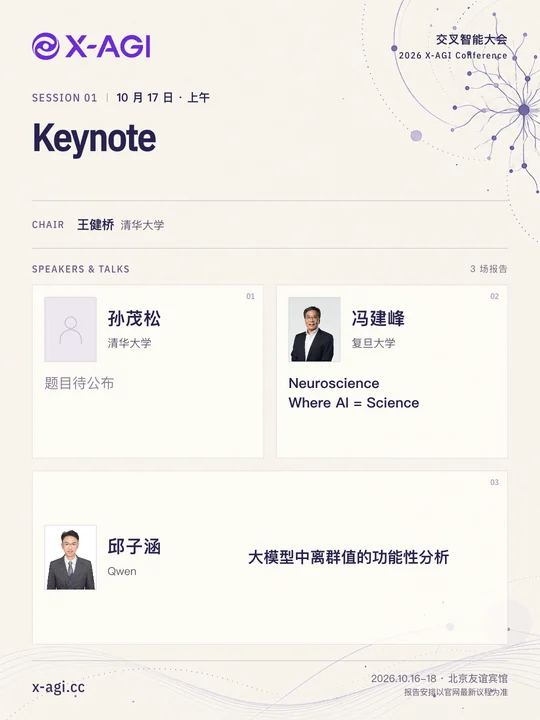
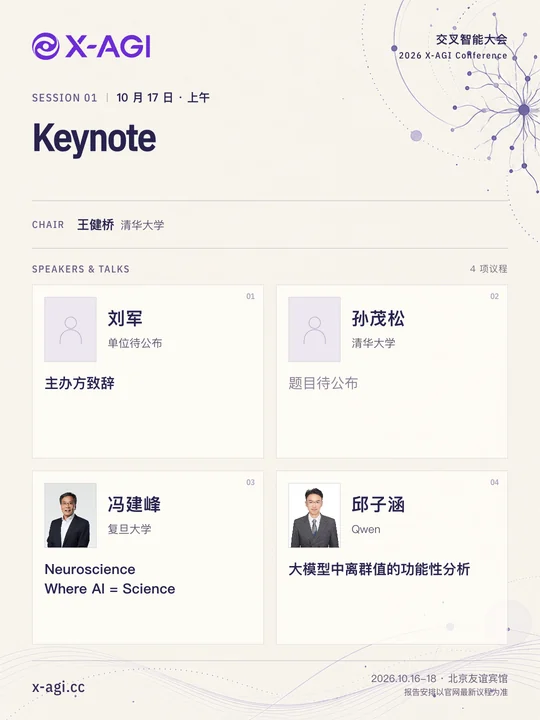
Add Liu Jun organizer remarks to the Keynote agenda (#36)

diff --git a/src/data/conference2026.test.ts b/src/data/conference2026.test.ts
@@ -9,6 +9,7 @@ import {
   conference2026PartnerDisplayGroups,
 } from './conference2026.ts';
 import { conference2026ProgramSource } from './conference2026-program.generated.ts';
+import { conference2026ProgramSessions, withOrganizerRemarks } from './conference2026-program.ts';
 import { partnerLogoByName } from './partner-logo-assets-2026.ts';
 
 const scheduleCategories = new Set(['arrival', 'keynote', 'parallel', 'poster']);
@@ -63,7 +64,7 @@ describe('conference schedule contracts', () => {
     assert.equal(conference2026ProgramSource.tabId, 'BB08J2');
     assert.equal(conference2026ProgramSource.sheetName, '工作表1');
     assert.match(conference2026ProgramSource.sourceHash, /^[a-f0-9]{64}$/u);
-    assert.equal(conference2026.programPreview.sessions, conference2026ProgramSource.sessions);
+    assert.equal(conference2026.programPreview.sessions, conference2026ProgramSessions);
     assert.ok(conference2026ProgramSource.sessions.length > 0);
 
     const expectedTimeSlots = new Map([
@@ -100,6 +101,22 @@ describe('conference schedule contracts', () => {
     }
 
     assert.deepEqual(actualTimeSlots, expectedTimeSlots);
+  });
+
+  it('keeps the organizer address first without duplicating later source updates', () => {
+    const keynote = conference2026ProgramSessions.find((session) => session.title === 'Keynote')!;
+    assert.deepEqual(keynote.speakers[0], { name: '刘军', talkTitle: '主办方致辞' });
+    assert.deepEqual(keynote.speakers.slice(1).map((speaker) => speaker.name), ['孙茂松', '冯建峰', '邱子涵']);
+    assert.deepEqual(conference2026ProgramSessions.slice(1), conference2026ProgramSource.sessions.slice(1));
+
+    const refreshed = withOrganizerRemarks([{
+      ...keynote,
+      speakers: [...keynote.speakers.slice(1), { name: '刘军', affiliation: '已确认单位' }],
+    }])[0];
+    assert.equal(refreshed.speakers.length, keynote.speakers.length);
+    assert.deepEqual(refreshed.speakers[0], {
+      name: '刘军', affiliation: '已确认单位', talkTitle: '主办方致辞',
+    });
   });
 });
 

diff --git a/src/data/conference2026-program.ts b/src/data/conference2026-program.ts
@@ -1,0 +1,29 @@
+import {
+  conference2026ProgramSessions as sourceSessions,
+  type Conference2026ProgramSourceSession,
+} from './conference2026-program.generated.ts';
+
+// Organizer-confirmed addition, 2026-09-17: Liu Jun gives the opening address.
+// Keep the Tencent snapshot intact; retire this supplement when the source owns it.
+const organizerRemarks = { name: '刘军', talkTitle: '主办方致辞' } as const;
+
+export function withOrganizerRemarks(
+  sessions: readonly Conference2026ProgramSourceSession[],
+): readonly Conference2026ProgramSourceSession[] {
+  if (!sessions.some((session) => session.title === 'Keynote')) {
+    throw new Error('The confirmed organizer address requires the Keynote session.');
+  }
+  return sessions.map((session) => {
+    if (session.title !== 'Keynote') return session;
+    const existing = session.speakers.find((speaker) => speaker.name === organizerRemarks.name);
+    return {
+      ...session,
+      speakers: [
+        { ...existing, ...organizerRemarks },
+        ...session.speakers.filter((speaker) => speaker.name !== organizerRemarks.name),
+      ],
+    };
+  });
+}
+
+export const conference2026ProgramSessions = withOrganizerRemarks(sourceSessions);

diff --git a/src/data/conference2026-people.ts b/src/data/conference2026-people.ts
@@ -3,7 +3,7 @@ import {
   type Conference2026PersonRole,
   type Conference2026PersonSourceRecord,
 } from './conference2026-people.generated.ts';
-import { conference2026ProgramSessions } from './conference2026-program.generated.ts';
+import { conference2026ProgramSessions } from './conference2026-program.ts';
 
 export type { Conference2026PersonRole } from './conference2026-people.generated.ts';
 

diff --git a/src/data/session-posters.ts b/src/data/session-posters.ts
@@ -1,4 +1,4 @@
-import { conference2026ProgramSessions } from './conference2026-program.generated.ts';
+import { conference2026ProgramSessions } from './conference2026-program.ts';
 import { conference2026PersonForName } from './conference2026-people.ts';
 import { conference2026 } from './conference2026.ts';
 

diff --git a/src/data/conference2026.ts b/src/data/conference2026.ts
@@ -1,4 +1,4 @@
-import { conference2026ProgramSessions } from './conference2026-program.generated.ts';
+import { conference2026ProgramSessions } from './conference2026-program.ts';
 
 export type Organization = {
   name: string;

diff --git a/docs/session-posters-2026.md b/docs/session-posters-2026.md
@@ -11,6 +11,9 @@
 `src/data/session-posters.ts` 组合官方日程和已公开的人物资料，不维护第二份独立嘉宾名单。
 专题顺序、半天时段、主席、讲者、单位和已确认报告题目来自 `src/data/conference2026-program.generated.ts`。
 该文件由腾讯文档 [X-AGI 2026 嘉宾信息](https://docs.qq.com/sheet/DUnZzaE5Ia2pVRHRj?tab=BB08J2) 的 `BB08J2` 标签页、`工作表1` 同步生成。
+`src/data/conference2026-program.ts` 将经会务确认的补充与腾讯快照组合，供日程、人物关联和海报统一使用。
+2026-09-17 根据会务补充，在 Keynote 最前加入“刘军：主办方致辞”，其后仍为孙茂松、冯建峰、邱子涵。
+这条补充没有提供单位或头像，沿用现有缺失资料的展示方式。
 人物公开资料来自 `src/data/conference2026-people.generated.ts`，通过 `src/data/conference2026-people.ts` 按姓名及明确别名关联本地头像和日程角色。
 报告题目优先采用日程的已确认题目，缺失时使用对应人物的公开提交题目。
 参会原表和私密字段不进入海报、源码或公开 provenance。

diff --git a/README.md b/README.md
@@ -94,6 +94,8 @@ scripts/
 
 2026 文案、票价、组织单位、基础日程和报名状态只在 `src/data/conference2026.ts` 中维护。
 专题、主席和嘉宾由腾讯文档生成到 `src/data/conference2026-program.generated.ts`，不得手工编辑生成文件。
+已确认但尚未进入腾讯表的会务补充在 `src/data/conference2026-program.ts` 中组合，日程、人物关联和海报统一消费该结果。
+2026-09-17 会务补充了 Keynote 开场的“刘军：主办方致辞”，后续腾讯表包含该嘉宾时不会重复添加。
 主席与演讲嘉宾的公开简介和报告摘要由参会表生成到 `src/data/conference2026-people.generated.ts`，并在日程卡片中原位展开，不得手工编辑生成文件。
 参会表中的订单、审核、支付、邮箱、电话、微信和对接信息属于私密字段，禁止进入源码、日志、测试夹具、构建产物或公开页面。
 页面组件负责表现，不应复制独立业务数据。
